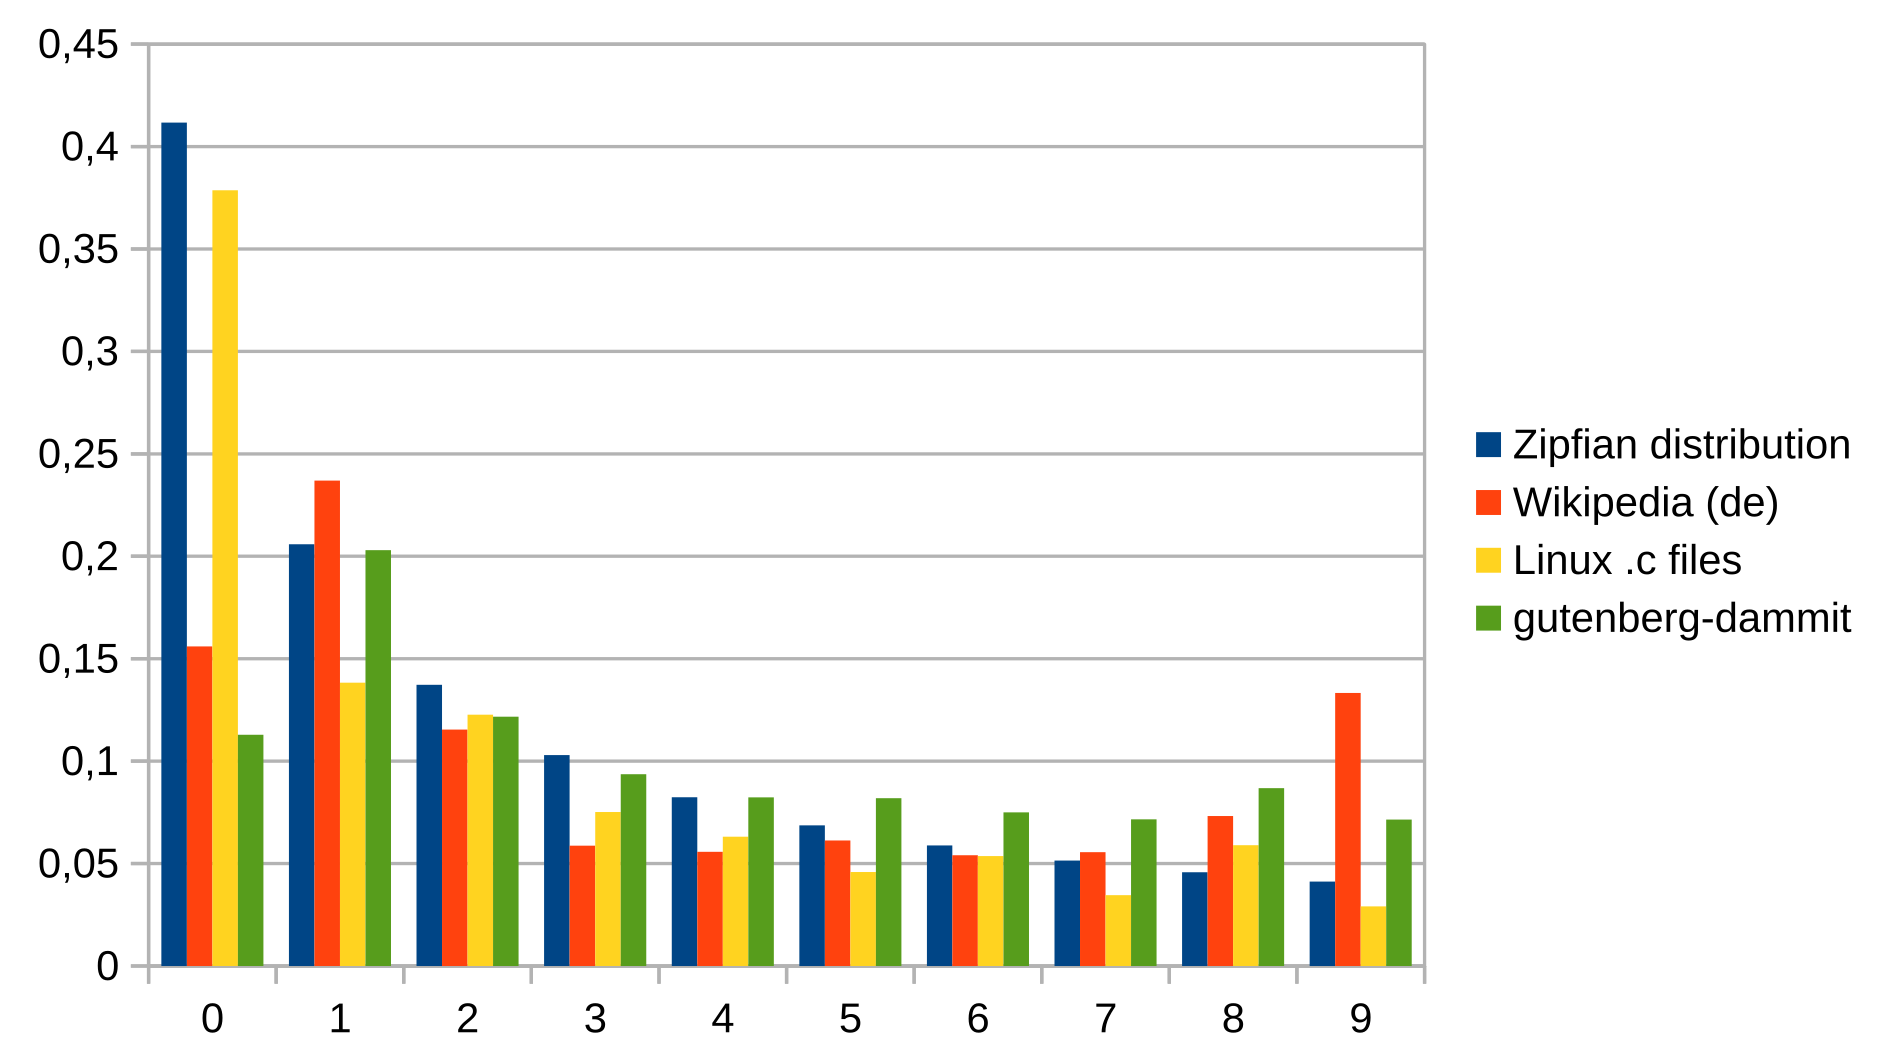
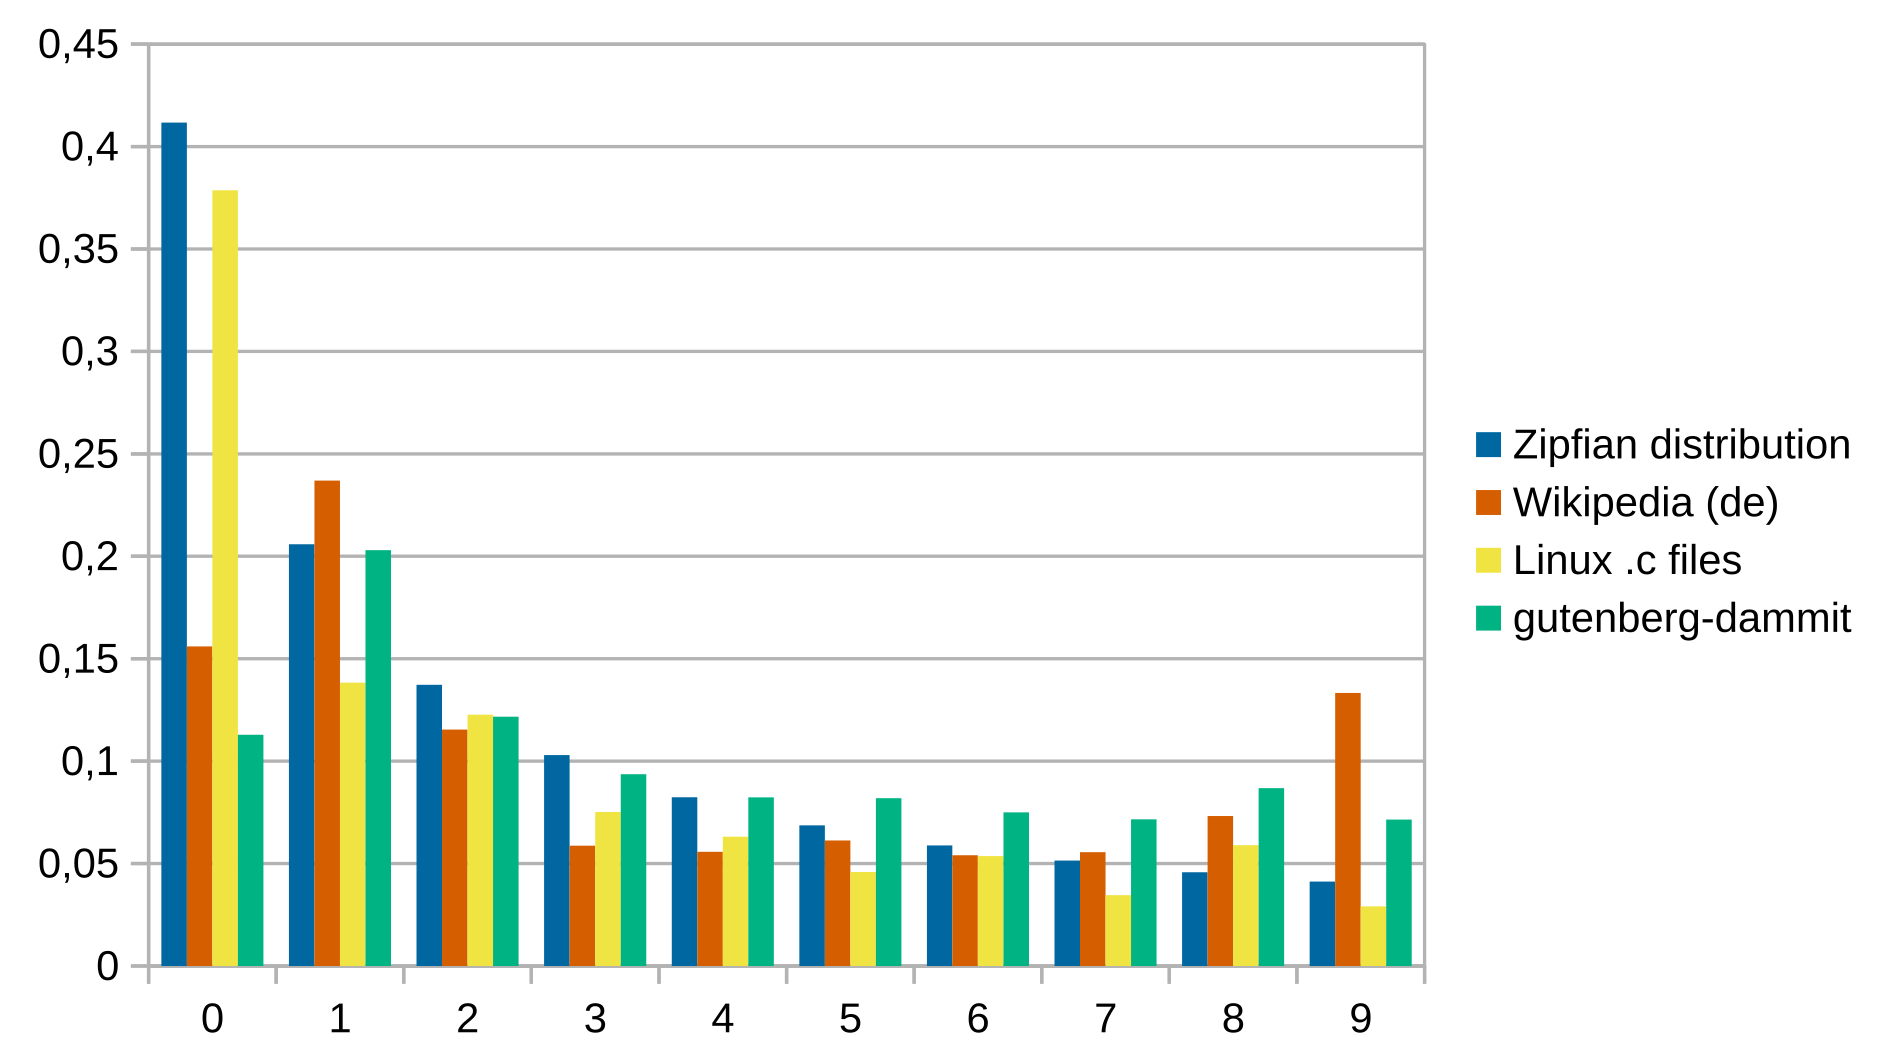
Switched to colorblind-friendly colors in bar chart

Changed region(s): [[0.0624, 0.1242, 0.7492, 0.9313], [0.7804, 0.4657, 0.8116, 0.5898], [0.7804, 0.4036, 0.8116, 0.4346]]

diff --git a/keyboard/number-row-optimization/README.md b/keyboard/number-row-optimization/README.md
@@ -116,7 +116,7 @@ The "penalty" in the following refers to the imbalance penalty, which is calcula
 
 Explanations for why these layouts were entered:
 
-* `54321 06789` - You only need to reverse the left half and move `0` to before `6`, which is easy to remember. Numbers stay on their current side, which is useful for games and programs where you have your other hand on a mouse or trackball.
+* `54321 06789` - You only need to reverse the left half and move `0` to before `6`, which is easy to remember. Numbers stay on their current side, which is useful for many games and programs where you have your other hand on a mouse or trackball.
 
 * `43215 90678` - Numbers stay on their side. Put the highest digit on the outer index key (which currently has `5` and `6`). The remaining digits are simply placed in ascending order outwards from these keys. To me, that seems pretty memorable.
 
